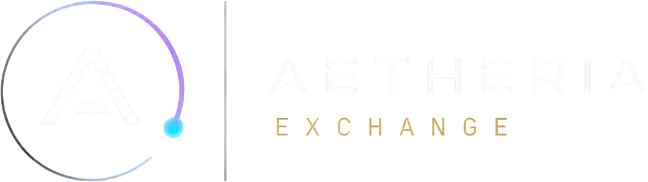
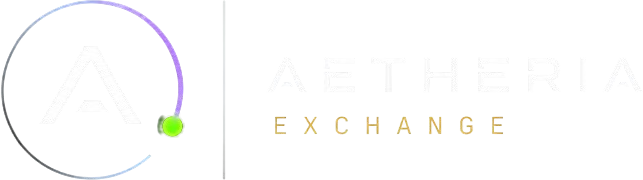
Brand kit: canonical flier formula + green-dot lockup assets
- docs/brand-kit.md: design tokens, the approved flier formula (statement +
  ghost texture + grid on flat black), the exact banner prompt that produced
  the X cover, format adaptations, and the master ChatGPT brand context
- header lockup and favicon updated to the green-dot mark (OKX green)

diff --git a/docs/brand-kit.md b/docs/brand-kit.md
@@ -1,0 +1,147 @@
+# Aetheria Brand Kit
+
+The reference for every Aetheria visual - app UI, fliers, banners, social
+assets, deck slides. The flier formula below is canon: **this is how Aetheria
+fliers look.** (Validated by the X banner generated 2026-08-13 - simple,
+professional, on-system.)
+
+---
+
+## Design tokens
+
+| Token | Value | Use |
+|---|---|---|
+| Ground | `#060609` | every background - flat matte near-black |
+| Panel | `#0a0a10` | cards/surfaces in UI |
+| Grid | white @ 3% opacity, 1px, ~44px spacing | the blueprint texture |
+| Text | `#f2f2f5` | primary copy |
+| Text dim | `#8b8b98` | secondary lines |
+| **OKX Green** | `#7EE705` | YES / action / positive / the signature glowing dot |
+| Violet | `#a06bff` | NO / AI / the orbit arc |
+| Gold | `#a5966b` | monospace micro-labels ONLY, never large |
+| Red | `#ff6b6b` | errors, sparingly |
+
+Typography: headlines in bold tight-tracked Helvetica-style sans, sentence
+case; labels/data in monospace, UPPERCASE, wide letter-spacing (0.16-0.22em).
+Hyphens, never em dashes.
+
+Logo: white "A" in a violet-to-green orbit ring ending in a glowing green
+dot. The **green dot** is the signature mark - it can stand alone as a
+period, a status light, or an accent.
+
+## The flier formula (canon)
+
+Every flier/banner is exactly three ingredients on the black field:
+
+1. **One statement.** The tagline or a single short line. Line 1 pure white,
+   line 2 dim grey. The final period becomes the glowing green dot.
+2. **One ghost texture.** Either (a) the orbit arc as a single thin
+   violet-to-green line, very large, mostly cropped off one edge, ~15%
+   opacity, or (b) one line of faint mono ticker text at ~8% opacity along
+   an edge.
+3. **The grid.** Barely-visible 1px blueprint grid over the black.
+
+Nothing else. No logos-in-composition, no icons, no 3D, no charts, no
+gradients, no lens flares, no borders. If a layout needs a fourth element,
+it's the wrong layout.
+
+## Canonical banner prompt (produced the approved X banner)
+
+Paste into ChatGPT (with the master brand context below already loaded):
+
+```
+Generate an image: an X (Twitter) profile banner, exactly 1500x500 (3:1
+landscape), for AETHERIA EXCHANGE, using the brand system you already know.
+
+Style target: a near-black field, ONE bold statement, one subtle background
+texture. Nothing else.
+
+Composition:
+- Background: flat matte near-black #060609. A barely-visible 1px blueprint
+  grid (white at 3% opacity, ~44px spacing). No gradients, no glow washes.
+- Headline, horizontally and vertically centered, occupying the middle safe
+  band (keep 200px clear on left and right edges, and keep the bottom-left
+  corner completely empty - the profile avatar overlaps there):
+  Line 1, pure white:  A market you can ask.
+  Line 2, grey #8b8b98: A hedge you can click.
+  Bold tight-tracked Helvetica-style sans, sentence case, generous line
+  spacing. Replace the final period of line 2 with a small glowing dot in
+  OKX green #7EE705 (soft glow, like a live-status indicator).
+- One texture element only: the brand's thin orbit-ring arc (violet #a06bff
+  fading to green #7ee705), drawn as a single elegant 2px line, very large,
+  mostly cropped off the LEFT edge of the frame, at roughly 15% opacity -
+  a ghost of the logo, not a rendering of it.
+
+Hard exclusions: no logo lockup, no letter A, no icons, no additional text,
+no 3D objects, no podiums, no charts, no candlesticks, no lens flares, no
+noise/grain, no purple gradients, no borders. Flat, precise, quiet.
+```
+
+Adaptations:
+- **Other formats**: change only the first line (size/aspect) - e.g.
+  "1200x630 Open Graph image", "1080x1350 portrait flier", "1920x1080 deck
+  title slide". Formula stays identical.
+- **Other statements**: swap the two headline lines; keep the white/grey
+  split and the green-dot period.
+- **Ticker-texture variant**: replace the texture element with: one line of
+  faint monospace uppercase text running the full width at the bottom edge,
+  8% opacity: "▲ 2.50 OKB YES · BTC TRADES ABOVE $150K   ＋ NEW MARKET · OKB
+  SETS A NEW ALL-TIME HIGH   ✓ RESOLVED YES".
+- **Text-artifact fallback**: if generated type has artifacts after 2-3
+  attempts, generate with no text at all (field + grid + arc only) and set
+  the typography locally.
+
+## Master ChatGPT brand context
+
+Load this first in a fresh session, then request deliverables:
+
+```
+You are a senior brand designer working on AETHERIA EXCHANGE, a crypto trading
+product. Study the brand brief below, then produce brand design work as I
+request it. Everything must feel like it belongs to the SAME system described
+here - do not invent a new visual direction.
+
+WHAT THE PRODUCT IS: Aetheria Exchange (@AetheriaEx) is an AI-powered
+prediction-market exchange on X Layer (OKX's Ethereum L2). Users bet YES/NO
+on real-world events (crypto, macro, sports, and "PULSE" daily markets about
+X Layer's own metrics). An AI co-pilot turns plain English into executable
+trades: "bet 5 OKB YES on the Fed market and hedge it" becomes a signed
+outcome bet plus a correlated hedge on OKX DEX. Four autonomous AI agents run
+the venue: the AI trades, creates, makes, and settles the markets.
+Non-custodial; AI runs on decentralized inference (0G). Tagline: "A market
+you can ask. A hedge you can click."
+
+AUDIENCE & PERSONALITY: crypto-native traders, hackathon judges, the
+OKX/X Layer ecosystem. Precision instrument, not a casino. Terminal,
+blueprint, mission-control. Confident, technical, a little cold - warmth
+comes only from the gold micro-labels. Never playful, never mascot-y.
+
+VISUAL SYSTEM (non-negotiable):
+- Backgrounds near-black #060609; panels #0a0a10; faint 1px blueprint grid
+  (white @ 3%, ~44px spacing). Thin #20202b borders, sharp corners.
+- OKX Green #7EE705 = YES / primary action / positive (soft glow). This is
+  the signature accent.
+- Violet #a06bff = NO / AI (soft glow). Muted gold #a5966b = micro-labels
+  only. Red #ff6b6b = errors, sparingly.
+- Headlines: Helvetica Neue Bold, tight tracking, sentence case, often two
+  lines with line 2 in grey #8b8b98. Labels: monospace, UPPERCASE, wide
+  letter-spacing.
+- Logo: white "A" in a violet-to-green orbit ring ending in a GLOWING GREEN
+  DOT (#7EE705). The green dot is the signature mark.
+- Motifs: the orbit arc, the glowing green dot, mono ticker strips like
+  "▲ 2.50 OKB YES · BTC TRADES ABOVE $150K", blueprint box-and-line
+  diagrams.
+- Hyphens, never em dashes.
+
+HARD PROHIBITIONS: no glassmorphism, no purple-gradient-on-white AI-startup
+look, no rounded SaaS cards, no 3D blobs, no robots/brains/mascots, no stock
+crypto-coin imagery, no Inter/Roboto, no light mode.
+
+FLIER FORMULA (canon for all fliers/banners/social images): one statement
+(white + grey line, final period = glowing green dot) + one ghost texture
+(orbit arc cropped off an edge at ~15% opacity, OR a faint mono ticker line)
++ the blueprint grid, on flat near-black. Nothing else.
+
+Confirm you've absorbed the system, then ask me which deliverable to start
+with.
+```
